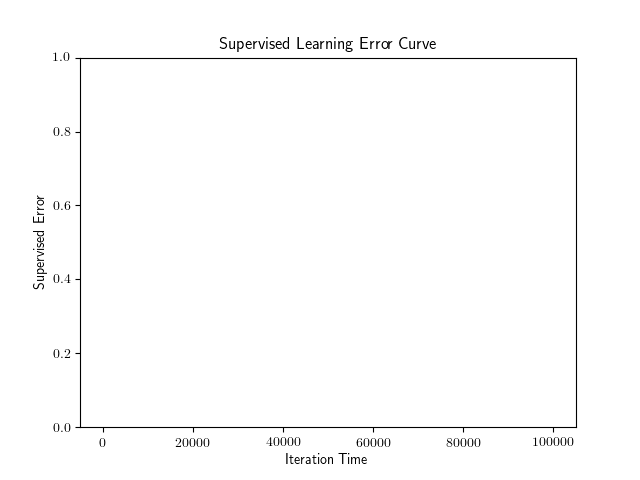
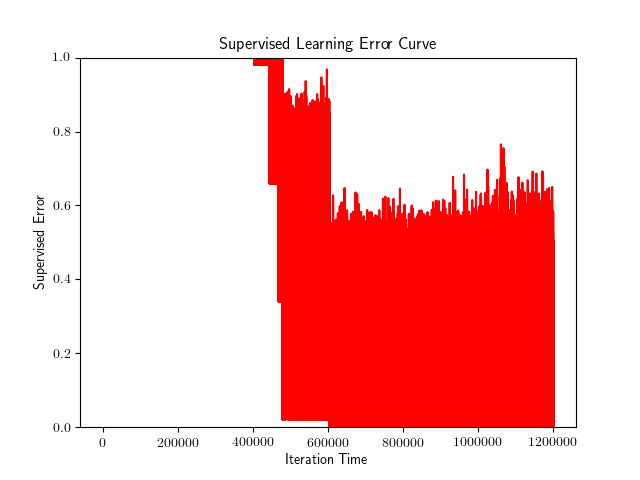
LOG.TXT done

Changed region(s): [[0.25, 0.125, 0.9062, 0.9375]]

diff --git a/test2/main.py b/test2/main.py
@@ -41,11 +41,9 @@ def max_pool(ims, h, w, ph, pw):
                 nims[i,j*nw+k] = np.max(pool)
     return [nims, nh, nw]
 
-def main():
-	# reading MINST database
-	# load training images
-	filename = '../MNIST/train-images-idx3-ubyte'
-	binfile = open(filename , 'rb')
+def load_mnist(im_path, lb_path):
+	# loading images
+	binfile = open(im_path, 'rb')
 	buf = binfile.read()
 	index = 0
 	magic,numImages,numRows,numColumns = \
@@ -57,9 +55,8 @@ def main():
 	for i in range(numImages):
 		ims[i,:] = struct.unpack_from('>784B', buf, index)
 		index += struct.calcsize('>784B');
-	# loading training labels
-	filename = '../MNIST/train-labels-idx1-ubyte'
-	binfile = open(filename, 'rb')
+	# loading labels
+	binfile = open(lb_path, 'rb')
 	buf = binfile.read()
 	index = 0
 	magic,numLabels = struct.unpack_from(
@@ -76,18 +73,24 @@ def main():
 		buf, 
 		index
 	)
-        # prepare data for training and testing
-        total = ims.shape[0]
-	train = total/2
-	test = total - train
+	return [ims, numRows, numColumns, lbs]
+
+def main():
+	# reading MINST database
+	# load training images
+	train_im_path = '../MNIST/train-images-idx3-ubyte'
+	train_lb_path = '../MNIST/train-labels-idx1-ubyte'
+	test_im_path = '../MNIST/t10k-images-idx3-ubyte'
+	test_lb_path = '../MNIST/t10k-labels-idx1-ubyte'
+	# prepare data for training and testing
+	print('loading images and labels from MNIST...')
+	[ims, h, w, lbs] = load_mnist(train_im_path, train_lb_path)
+	train = ims.shape[0]
         numlbl = 10
 	# apply max-pooling
-	ims1 = np.zeros([total,numRows*numColumns])
-	ims1[:,:]=ims[0:total,:]
-        del(ims)
-	h = numRows
-	w = numColumns
-	[ims1,h,w] = max_pool(ims1,h,w,2,2)
+	print('applying max-pooling...')
+	[ims1, h, w] = max_pool(ims,h,w,2,2)
+	del(ims)
         # deep HLN => DHLN
 	if sys.argv[1]=="HLNN":
 		net = HLNN()
@@ -103,7 +106,7 @@ def main():
 	net.set_som_eta(0.8)
 	net.build_model()
         # training 
-        snum = train*100
+        snum = train*20
         sseq = np.random.randint(0,train,snum)
         serr = np.zeros(snum)
 	for i in xrange(snum):
@@ -111,7 +114,7 @@ def main():
             f = np.zeros(numlbl) + 0.2
 	    f[int(lbs[sseq[i]])] = 0.8
             serr[i] = net.drive_model(v, f)
-            print(serr[i])
+            print i, '\t', serr[i]
 	# plot error figure
 	serrfig = pl.figure()
 	pl.plot(xrange(snum), serr, "r-")
@@ -122,13 +125,16 @@ def main():
 	pl.draw()
 	serrfig.savefig("serrfig")
 	# check correctness
+	[ims, h, w, lbs] = load_mnist(test_im_path, test_lb_path)
+	test = ims.shape[0]
+	[ims1, h, w] = max_pool(ims, h, w, 2, 2)
         predict = np.zeros(test)
 	for i in xrange(test):
-            (opt, err) = net.drive_model(ims1[train+i,:], [])
+            (opt, err) = net.drive_model(ims1[i,:], [])
             predict[i] = np.argmax(opt)
 	crt = 0
 	for i in xrange(test):
-		crt += bool(lbs[train+i]==predict[i])
+		crt += bool(lbs[i]==predict[i])
 	print(1.0*crt/test)
 # execute the program
 main()
